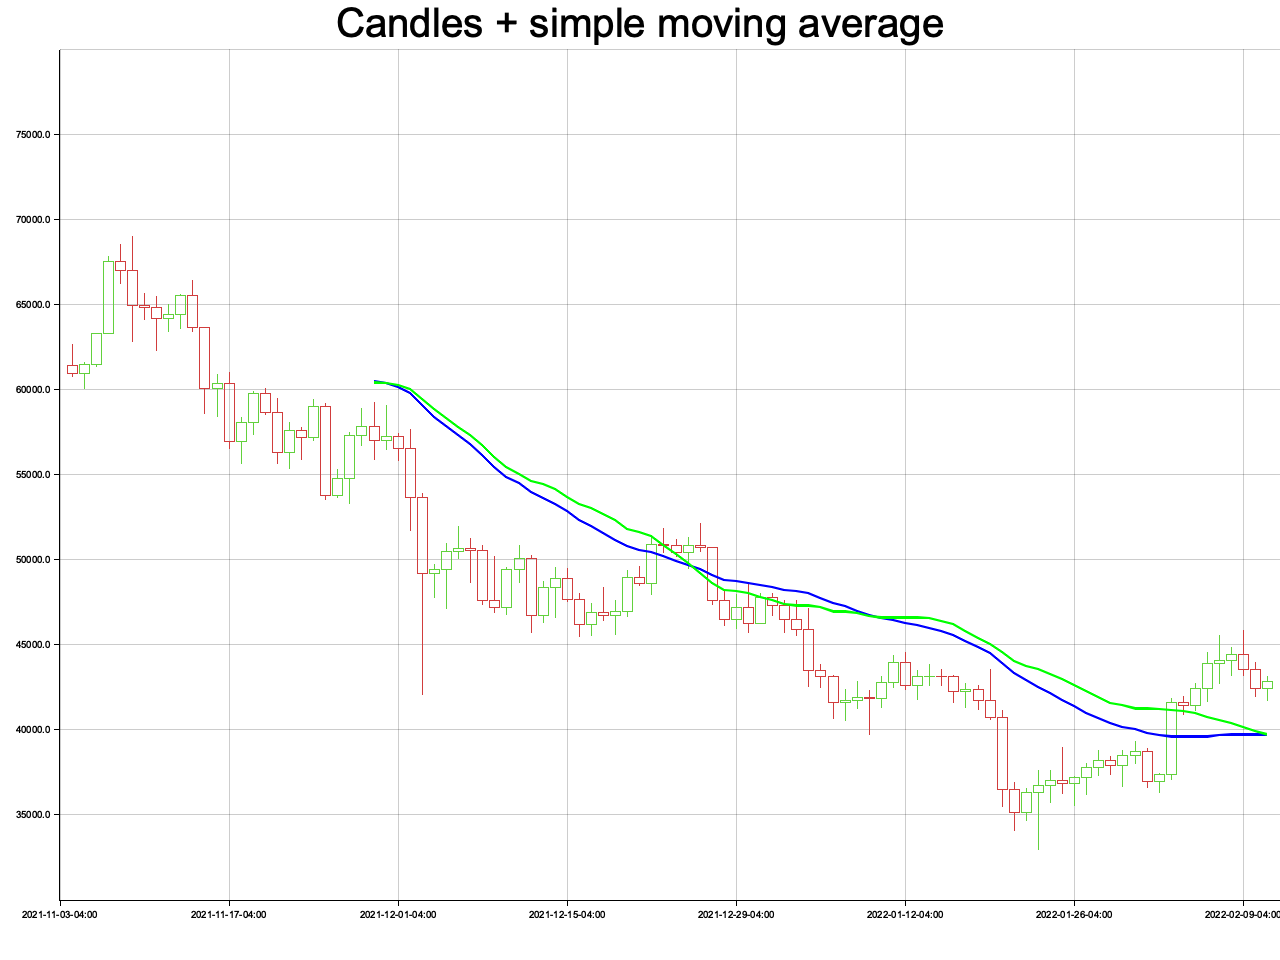
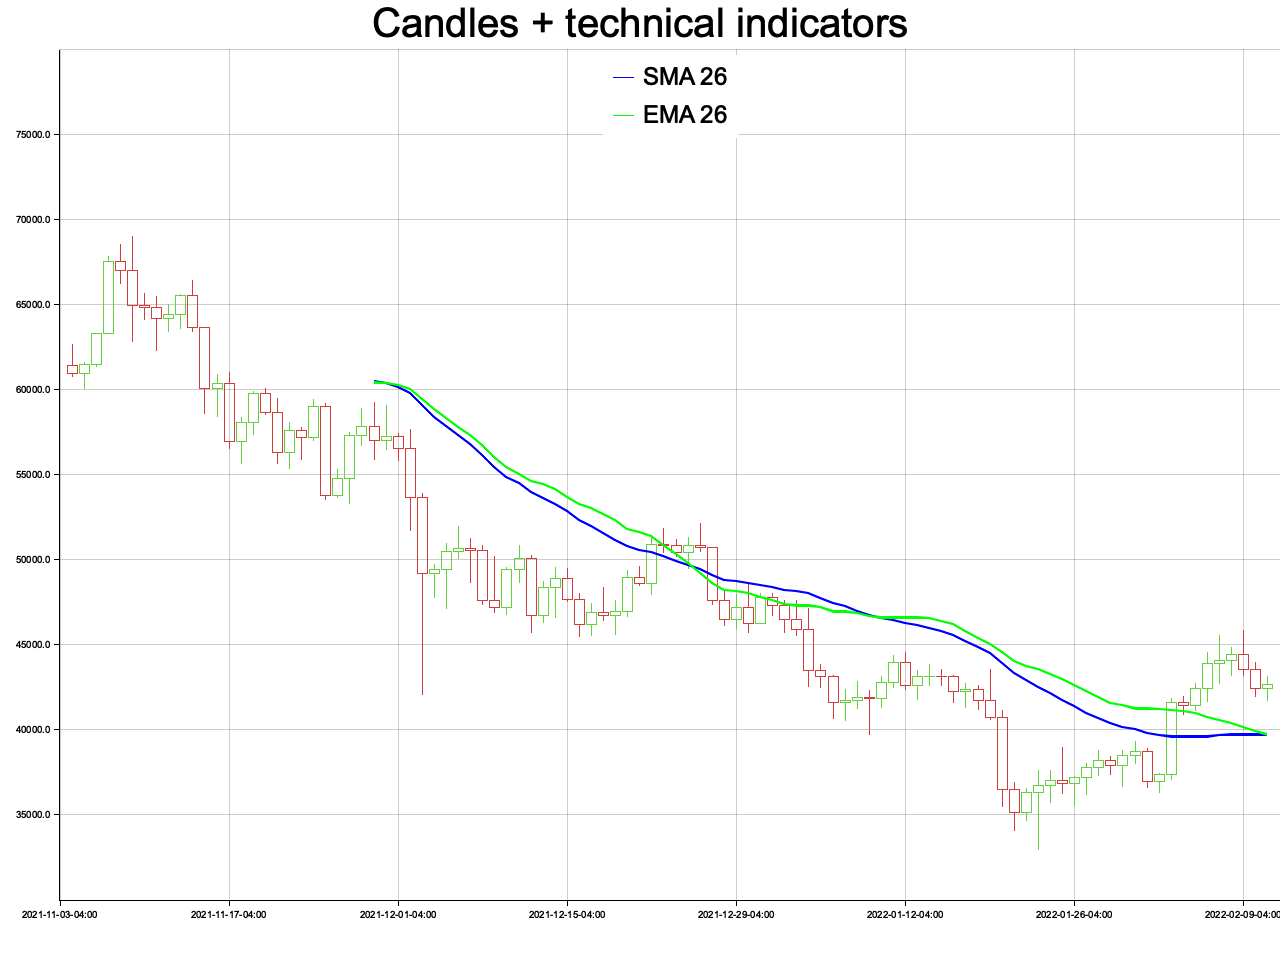
add moving average convergence divergence algorithm

Changed region(s): [[0.25, 0.0, 0.75, 0.1562]]

diff --git a/src/main.rs b/src/main.rs
@@ -49,7 +49,7 @@ async fn main() {
         .x_label_area_size(60)
         .y_label_area_size(60)
         .caption(
-            "Candles + simple moving average",
+            "Candles + technical indicators",
             ("sans-serif", 50.0).into_font(),
         )
         .build_cartesian_2d(start_date..end_date, 30000f64..80000f64)
@@ -96,17 +96,17 @@ async fn main() {
     chart
         .draw_series(LineSeries::new(line_data, BLUE.stroke_width(2)))
         .unwrap()
-        .label("SMA 15")
+        .label("SMA 26")
         .legend(|(x, y)| PathElement::new(vec![(x, y), (x + 20, y)], &BLUE));
 
     
 
     let result = statistics::exponential_moving_average(&price_data, 26);
 
-let ema_data = match result {
-    Some(data) => data,
-    _ => panic!("Calculating EMA failed"),
-};
+    let ema_data = match result {
+        Some(data) => data,
+        _ => panic!("Calculating EMA failed"),
+    };
 
 println!("EMA: {:?}", ema_data[0]);
 
@@ -120,8 +120,34 @@ let mut line2_data: Vec<(Date<Local>, f64)> = Vec::new();
     chart
         .draw_series(LineSeries::new(line2_data, GREEN.stroke_width(2)))
         .unwrap()
-        .label("EMA 15")
+        .label("EMA 26")
         .legend(|(x, y)| PathElement::new(vec![(x, y), (x + 20, y)], &GREEN));
+
+    let result = statistics::moving_average_convergence_divergence(&price_data, 12, 26, 9);
+
+    let macd_data = match result {
+        Some(data) => data,
+        _ => panic!("Calculating MACD failed"),
+        };
+
+    println!("MACD: {:?} {:?}", macd_data.macd[0], macd_data.signal[0]);
+
+    let mut histo_data: Vec<(Date<Local>, f64)> = Vec::new();
+    for i in 0..macd_data.macd.len() {
+        histo_data.push((time_data[i].0, macd_data.macd[i] as f64));
+    }
+
+     println!("MACD_plot: {:?}", histo_data[0]);
+
+        
+
+    chart
+        .configure_series_labels()
+        .position(SeriesLabelPosition::UpperMiddle)
+        .label_font(("sans-serif", 30.0).into_font())
+        .background_style(WHITE.filled())
+        .draw()
+        .unwrap();
 
         root.present().expect(&format!("Unable to write result to file please make sure directory '{}' exists under the current dir", &dir));
 

diff --git a/src/test_statistics.rs b/src/test_statistics.rs
@@ -48,4 +48,45 @@ mod test_statistics {
             result
         );
     }
+
+    #[test]
+fn test_moving_average_convergence_divergence() {
+    let data_set = vec![
+        5.0, 6.0, 4.0, 2.0, 1.5, 1.0, 2.0, 3.0, 3.5, 3.5, 4.0, 4.5, 5.0,
+    ];
+
+    let result = moving_average_convergence_divergence(&data_set, 12, 26, 9);
+    assert_eq!(None, result);
+
+    let result = moving_average_convergence_divergence(&data_set, 3, 6, 2).unwrap();
+    assert_eq!(8, result.macd.len());
+    assert_eq!(
+        vec![
+            -1.5,
+            -1.0178571428571432,
+            -0.48596938775510257,
+            -0.1194424198250732,
+            0.02852327155351908,
+            0.18443626539537084,
+            0.32091429671097904,
+            0.4309544083649852
+        ],
+        result.macd
+    );
+    assert_eq!(7, result.signal.len());
+    assert_eq!(
+        vec![
+            -1.2589285714285716,
+            -0.7436224489795923,
+            -0.32750242954324627,
+            -0.09015196214540272,
+            0.09290685621511298,
+            0.24491181654569036,
+            0.36894021109188696
+        ],
+        result.signal
+    );
+    }   
+
+    
 }

diff --git a/src/statistics.rs b/src/statistics.rs
@@ -38,4 +38,37 @@ pub fn exponential_moving_average(data_set: &Vec<f64>, window_size: usize) -> Op
     Some(result)
 }
 
+#[derive(PartialEq, Debug)]
+pub struct MACD {
+    pub macd: Vec<f64>,
+    pub signal: Vec<f64>,
+}
 
+pub fn moving_average_convergence_divergence(
+    data_set: &Vec<f64>,
+    fast_length: usize,
+    slow_length: usize,
+    signal_length: usize,
+) -> Option<MACD> {
+    let fast_ema_result = exponential_moving_average(data_set, fast_length);
+    let slow_ema_result = exponential_moving_average(data_set, slow_length);
+
+    let (fast_ema, slow_ema) = match (fast_ema_result, slow_ema_result) {
+        (Some(fast_ema), Some(slow_ema)) => (fast_ema, slow_ema),
+        _ => return None,
+    };
+
+    let mut macd: Vec<f64> = Vec::new();
+    for i in 0..slow_ema.len() {
+        let macd_val = fast_ema[(fast_ema.len() - slow_ema.len()) + i] - slow_ema[i];
+        macd.push(macd_val);
+    }
+
+    let signal_result = exponential_moving_average(&macd, signal_length);
+    let signal = match signal_result {
+        Some(signal) => signal,
+        _ => return None,
+    };
+
+    Some(MACD { macd, signal })
+}
